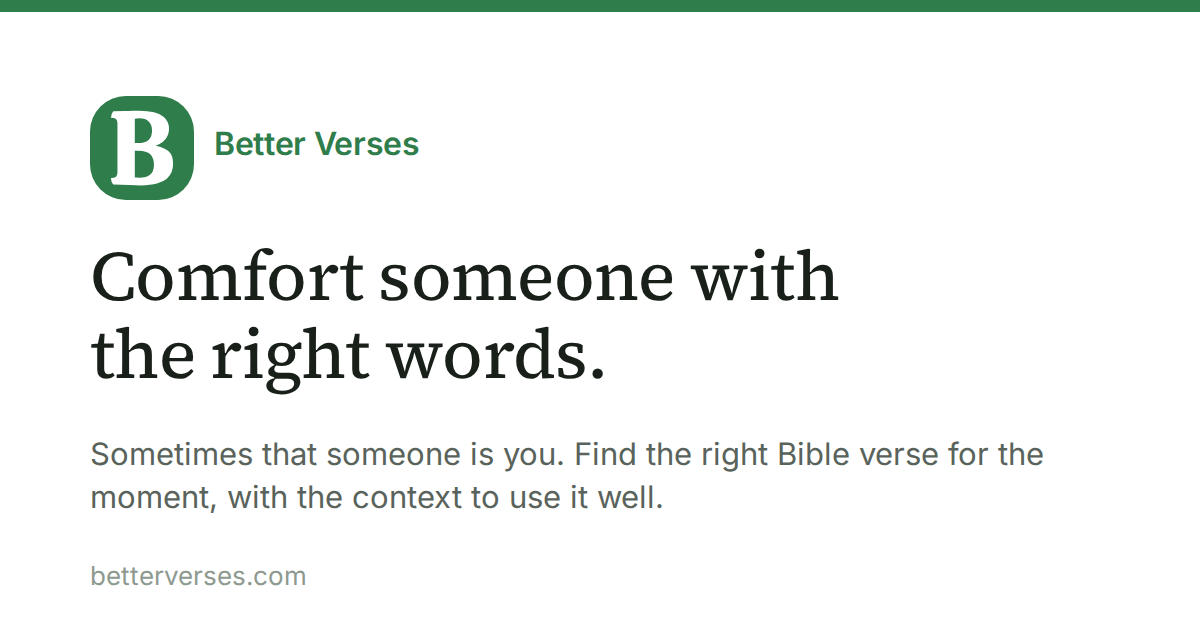
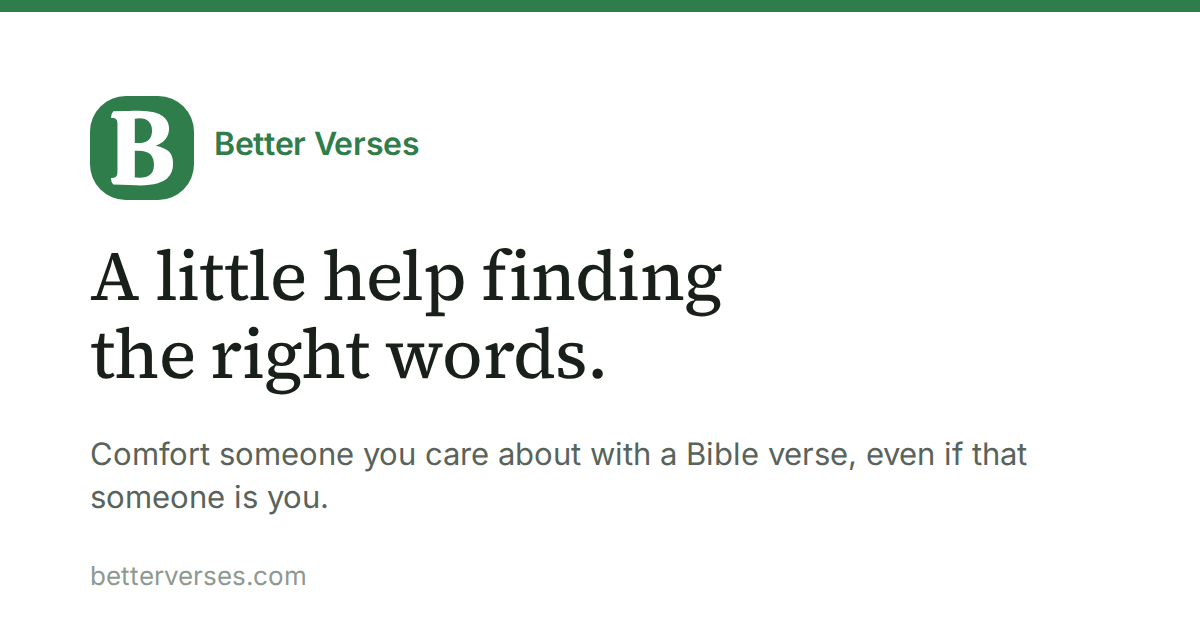
og changes

Changed region(s): [[0.0617, 0.6937, 0.8633, 0.8143], [0.0617, 0.3921, 0.7092, 0.5127]]

diff --git a/scripts/og-template.html b/scripts/og-template.html
@@ -9,4 +9,4 @@ h1{position:absolute;left:90px;top:236px;margin:0;font-family:SS;font-weight:450
 p{position:absolute;left:90px;top:432px;margin:0;font-size:31px;line-height:1.4;color:#59635B;width:960px}
 .u{position:absolute;left:90px;top:560px;font-size:26px;color:#8E9A90}
 </style></head><body><div class="bar"></div><svg class="mark" xmlns="http://www.w3.org/2000/svg" viewBox="0 0 64 64" width="104" height="104"><rect width="64" height="64" rx="22" fill="#2F7D4B"/><path d="M31.32 55.00Q28.28 55.00 24.27 54.74Q20.26 54.48 14.31 54.48Q12.88 52.74 12.88 50.41Q15.08 50.41 15.99 49.66Q16.89 48.92 16.89 47.11V16.70Q16.89 14.89 15.99 14.14Q15.08 13.40 12.88 13.40Q12.88 11.07 14.31 9.32Q18.90 9.32 21.62 9.23Q24.33 9.13 26.24 9.06Q28.15 9.00 30.09 9.00Q35.72 9.00 39.34 10.00Q42.97 11.01 45.00 12.59Q47.04 14.18 47.85 16.08Q48.66 17.99 48.66 19.87Q48.66 23.49 46.78 26.08Q44.91 28.67 40.44 30.54Q46.01 31.71 48.56 34.17Q51.12 36.63 51.12 41.80Q51.12 44.32 50.28 46.69Q49.44 49.05 47.27 50.92Q45.10 52.80 41.22 53.90Q37.34 55.00 31.32 55.00ZM29.51 28.99Q34.23 28.99 36.21 26.92Q38.18 24.85 38.18 21.36Q38.18 17.86 36.27 15.79Q34.36 13.72 30.22 13.72Q29.57 13.72 28.83 13.79Q28.09 13.85 27.57 13.98V28.86Q28.02 28.93 28.54 28.96Q29.06 28.99 29.51 28.99ZM30.29 50.28Q39.34 50.28 39.34 42.45Q39.34 38.05 37.11 35.85Q34.88 33.65 29.70 33.65Q29.19 33.65 28.57 33.68Q27.96 33.71 27.57 33.71V50.08Q28.02 50.15 28.73 50.21Q29.44 50.28 30.29 50.28Z" fill="#FFFFFF"/></svg><div class="name">Better Verses</div>
-<h1>Comfort someone with<br>the right words.</h1><p>Sometimes that someone is you. Find the right Bible verse for the moment, with the context to use it well.</p><div class="u">betterverses.com</div></body></html>
+<h1>A little help finding<br>the right words.</h1><p>Comfort someone you care about with a Bible verse, even if that someone is you.</p><div class="u">betterverses.com</div></body></html>

diff --git a/src/lib/pages.js b/src/lib/pages.js
@@ -57,9 +57,9 @@ export function home(ctx) {
   const d = daily.entry;
   const body = `
 <section class="hero" aria-labelledby="h-find">
-  <h1 id="h-find">Comfort someone with<br class="hero__br"> the right words.</h1>
-  <p class="hero__sub">Sometimes that someone is you.</p>
-  <p class="hero__dek">A friend in grief, a parent before surgery, a coworker starting over, or a night you can’t sleep. Search Bible verses for comfort, hope, and encouragement in plain English, or just start from the exact moment you’re in.</p>
+  <h1 id="h-find">A little help finding<br class="hero__br"> the right words.</h1>
+  <p class="hero__sub">Comfort someone you care about with a Bible verse, even if that someone is you.</p>
+  <p class="hero__dek">A friend in grief, a coworker starting over, or a night you can’t sleep. Find Bible verses for comfort, hope, and encouragement.</p>
   ${searchBox()}
 </section>
 
